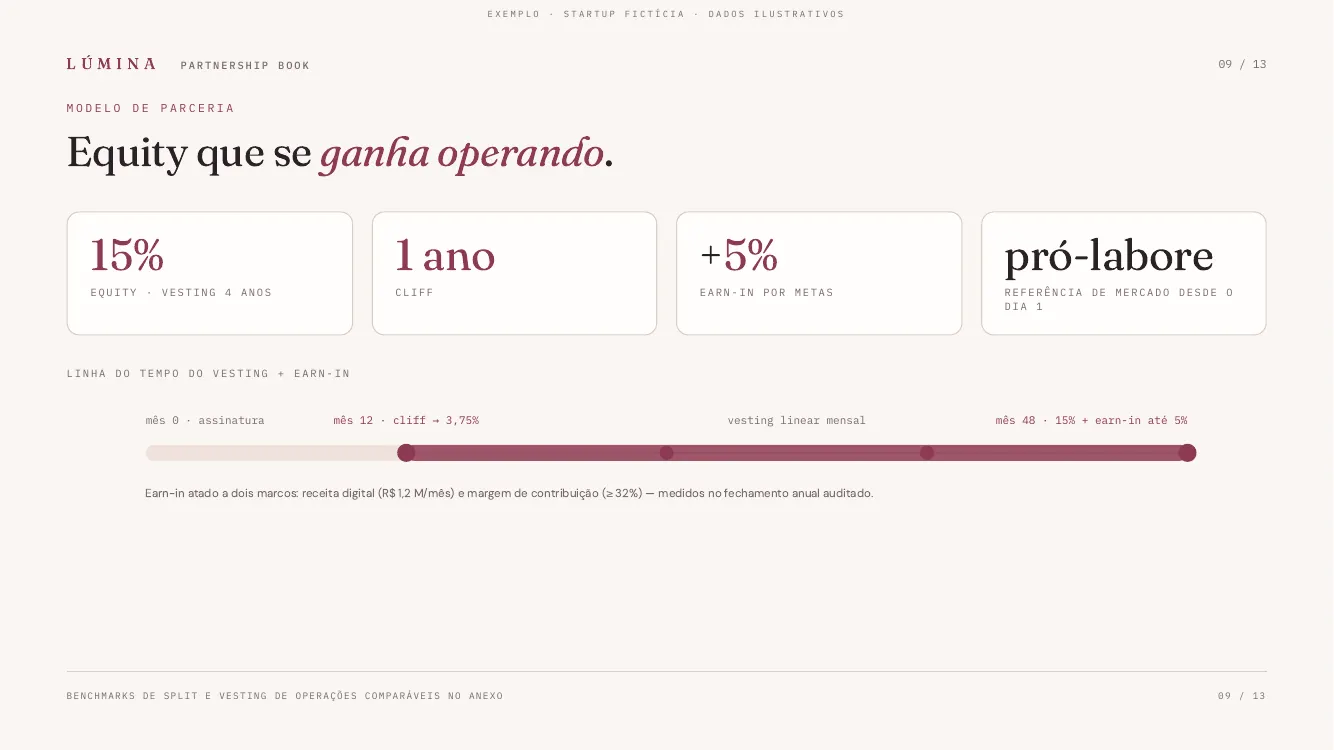
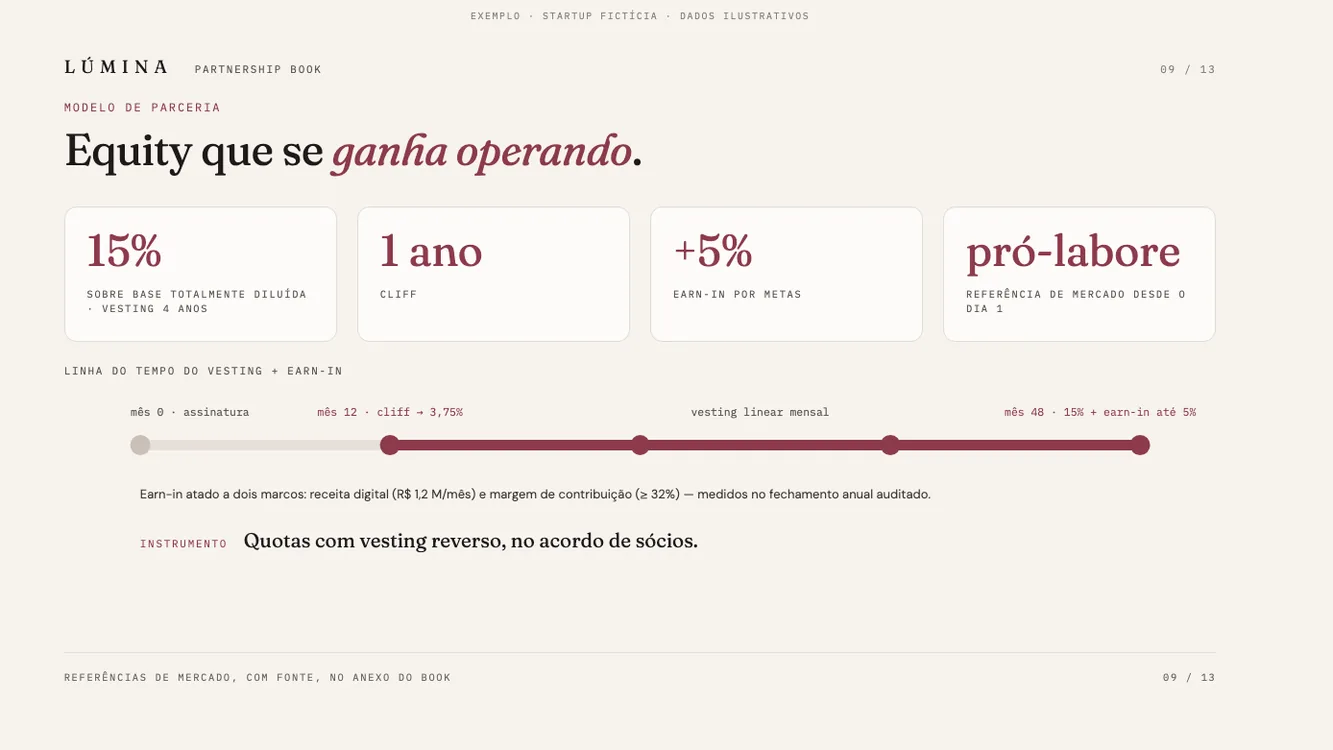
Partnership Book: texto da busca sem 'mapeamos candidatos', 'pacote completo para o sócio', frase de limite no rodapé e lâminas 9 e 10 do exemplo Lúmina corrigidas (revisão do CLO de 23/nov/2026)

diff --git a/servicos/partnership-book/index.html b/servicos/partnership-book/index.html
@@ -175,8 +175,8 @@
         <img src="/servicos/partnership-book/assets/slide-01.webp" alt="Capa do Partnership Book da Lúmina: sócia operadora digital" loading="lazy" />
         <img src="/servicos/partnership-book/assets/slide-02.webp" alt="Slide O Gargalo Honesto do exemplo Lúmina" loading="lazy" />
         <img src="/servicos/partnership-book/assets/slide-03.webp" alt="Slide O Papel da sócia operadora digital no exemplo Lúmina" loading="lazy" />
-        <img src="/servicos/partnership-book/assets/slide-04.webp" alt="Slide Modelo de Parceria com equity e vesting do exemplo Lúmina" loading="lazy" />
-        <img src="/servicos/partnership-book/assets/slide-05.webp" alt="Slide A Conta Que Você Vai Fazer do exemplo Lúmina" loading="lazy" />
+        <img src="/servicos/partnership-book/assets/slide-04.webp" alt="Slide Modelo de Parceria do exemplo Lúmina: 15% sobre base totalmente diluída, vesting e instrumento" loading="lazy" />
+        <img src="/servicos/partnership-book/assets/slide-05.webp" alt="Slide A Conta Que Você Vai Fazer do exemplo Lúmina: o pacote completo, por escrito, sem projeção de valor" loading="lazy" />
         <img src="/servicos/partnership-book/assets/slide-06.webp" alt="Slide Roadmap dos primeiros 24 meses do exemplo Lúmina" loading="lazy" />
       </div>
       <div class="lumina-cta-row">
@@ -200,7 +200,7 @@
         <div class="prompt"><span class="prompt-num">4</span><div><h3>A tese de crescimento</h3><p>De onde vem o próximo múltiplo — e qual papel o sócio tem nessa construção.</p></div></div>
         <div class="prompt"><span class="prompt-num">5</span><div><h3>O papel do sócio</h3><p>Escopo, autonomia e o que é "dele" desde o dia 1. Perfil certo se atrai com clareza.</p></div></div>
         <div class="prompt"><span class="prompt-num">6</span><div><h3>Modelo de parceria</h3><p>Equity que se ganha: participação, vesting e as regras do jogo antes do aperto de mão.</p></div></div>
-        <div class="prompt"><span class="prompt-num">7</span><div><h3>A conta que ele vai fazer</h3><p>O cenário de valor para o sócio — porque ninguém entra numa sociedade sem fazer essa conta.</p></div></div>
+        <div class="prompt"><span class="prompt-num">7</span><div><h3>A conta que ele vai fazer</h3><p>O pacote completo para o sócio — porque ninguém entra numa sociedade sem fazer essa conta.</p></div></div>
         <div class="prompt" style="background:var(--accent-soft);border-color:var(--accent-border)"><span class="prompt-num">✓</span><div><h3>Roadmap a dois</h3><p>Os primeiros 24 meses juntos, com marcos claros — a sociedade como plano, não como aposta.</p></div></div>
       </div>
     </div>
@@ -226,7 +226,7 @@
       <div class="honest">
         <h3>Uma honestidade antes de você <em>contratar</em>.</h3>
         <p><strong>O Partnership Book prepara a sua busca — ele não entrega o sócio.</strong> Não é headhunting, não é promessa de matching. O que ele faz é mudar a qualidade da conversa: quem recebe um book desses entende que está diante de uma proposta séria, com números reais e regras claras.</p>
-        <p>A busca acontece no seu networking, na sua rede setorial e nos canais certos — e há um formato de acompanhamento em que também mapeamos candidatos com você. O agente explica os formatos na conversa; o desenho final é feito na call.</p>
+        <p>A busca acontece no seu networking, na sua rede setorial e nos canais que você escolher. O Partnership Book e a nossa consultoria preparam essa busca: não recrutamos, não mapeamos nem apresentamos candidatos e não garantimos contratação. Os detalhes do formato são combinados na call.</p>
       </div>
     </div>
   </section>
@@ -267,7 +267,7 @@
       </div>
       <div class="footer-legal">
         <p class="footer-legal-line">pitchdeck.com.br/servicos/partnership-book</p>
-        <p class="footer-legal-line">Serviço operado por NVESTOR TECNOLOGIA E INFORMACAO LTDA · CNPJ 34.821.742/0001-08</p>
+        <p class="footer-legal-line">Serviço operado por NVESTOR TECNOLOGIA E INFORMACAO LTDA · CNPJ 34.821.742/0001-08 · A NVESTOR e a Equity Rio Investimentos não distribuem nem intermedeiam valores mobiliários. Não recrutamos nem apresentamos candidatos.</p>
         <p class="footer-legal-line">© 2026 PitchDeck. Todos os direitos reservados.</p>
       </div>
     </div>
